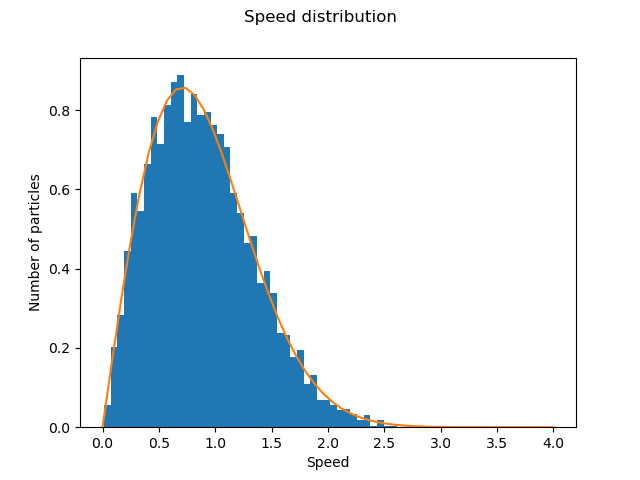
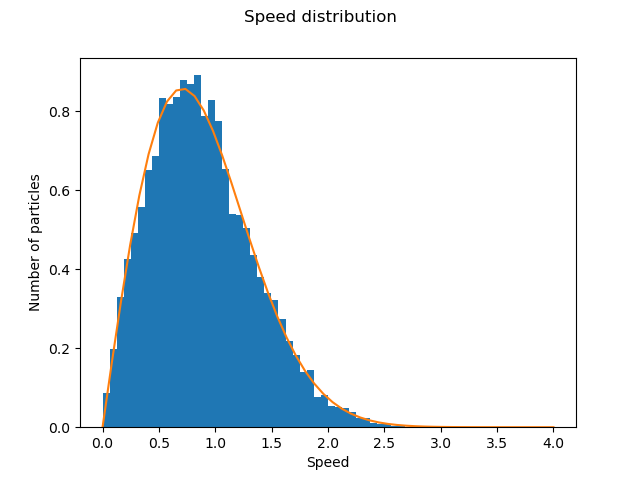
improved plots

diff --git a/problems.py b/problems.py
@@ -1,5 +1,6 @@
 from simulation import *  
 from functions import *
+from scipy import stats
 
 #average collision number=number of collisions/number of particles
 
@@ -11,20 +12,37 @@ from functions import *
 def problem1(N1,m0,n,interval,start,rc,r0,v0):
     rc=1
     velocities=[]
+    velCorr=[]
     #initialize mass array
     masses1=np.full(N1,m0)
 
     #initialize particle array
     parr1=initParticleArray(N1,masses1,r0,m0,v0,rc)
+    initVel=getVelocities(parr1)
+    histogram(initVel,"initHistp1")
 
     #run simulation
     parrData=simulationData(parr1,n,interval,start,rc)
 
     #Get velocity data, and plot histogram with Maxwell-Boltzmann distribution
     for parr in parrData: #add velocity data to list
+        velCorr.append(getVelocities(parr))
         velocities.extend(getVelocities(parr))
-    print(velocities)
+
+    #plotting histogram and MB 
     HistogramMB(velocities,m0,"problem1")
+    
+    #checking correlation
+    print("Pearson correlation coefficient: ",stats.pearsonr(velCorr[0],velCorr[1]))
+    fig,ax=plt.subplots(1,1)
+    ax.scatter(velCorr[0],velCorr[1],"bo")
+    ax.set_xlabel("velocity data sample 1")
+    ax.set_ylabel("velocity data sample 2")
+    plt.suptitle("Correlation for "+str(N1)+" particles and "+str(interval)+" collisions")
+    fig.savefig("correlationPlot")
+    plt.show()
+
+    
         
 
 
@@ -46,7 +64,7 @@ def problem2(N2,m0,n,r0,v0,rc):
 
     #initial plot
     initialVelocities=getVelocities(particleArray2)
-    histogram(initialVelocities)
+    histogram(initialVelocities,"initHistp2")
 
     #run simulation
     finalParr=simulation(particleArray2,n,RC)
@@ -124,10 +142,10 @@ def problem3(N3,m0,n,interval,start,r0,v0,rc):
 
 
 
-N1=2000
+N1=3000
 m0=1
-n1=20000
-interval1=5000
+n1=30000
+interval1=10000
 start1=10000
 rc=1
 r0=0.001 #must be large enough so that particle particle collisions happen often enough???

diff --git a/functions.py b/functions.py
@@ -10,8 +10,14 @@ def getVelocities(Parr):
     return velocities
 
 #plotting histogram of velocities
-def histogram(velocities):
-    plt.hist(velocities,bins=101,density=True)
+def histogram(velocities,filename):#filename is a string containing the name to save the file as
+    fig,ax=plt.subplots(1,1)
+    fig.suptitle("Speed distribution")
+    ax.set_xlabel("Speed")
+    ax.set_ylabel("Number of particles")
+    ax.hist(velocities,bins=41, range=(0,2))
+    fig.savefig(filename)
+    plt.show()
 
 
 #NB 2 degrees 
@@ -27,9 +33,8 @@ def HistogramMB(velocities,m,filename): #filename is a string containing the nam
     fig.suptitle("Speed distribution")
     ax.set_xlabel("Speed")
     ax.set_ylabel("Number of particles")
-    ax.hist(velocities,bins=51,density=True)
+    ax.hist(velocities,bins=91,density=True)
     ax.plot(v,mb)
-    plt.tight_layout()
     fig.savefig(filename)
     plt.show()
     return averageVelocity

diff --git a/simulation.py b/simulation.py
@@ -310,7 +310,7 @@ def simulationData(particleArray,n,interval,start,RC): #start=number of collisio
     Time=0.0 #set start time to zero
     for i in range(int(n/interval)+1):
         Time = runSimulation(interval,eventQueue,particleArray, Time,RC) #run simulation and update time
-        if (i*interval>=start): #save data
+        if ((i+1)*interval>=start): #save data
             print("data saved")
             data.append(particleArray.copy()) 
     return data

diff --git a/problem4.py b/problem4.py
@@ -83,8 +83,8 @@ def craterVisualization(parr,n,interval,start,RC):
     data=simulationData(parr,n,interval,start,RC) #run simulation
     fig,ax=plt.subplots(2,2)
     N=len(parr)
-    gr=5 #radius for plotting ground particles
-    pr=20 #radius for projectile particle
+    gr=3 #radius for plotting ground particles
+    pr=100 #radius for projectile particle
 
     #first subplot
     parr1=data[0]
